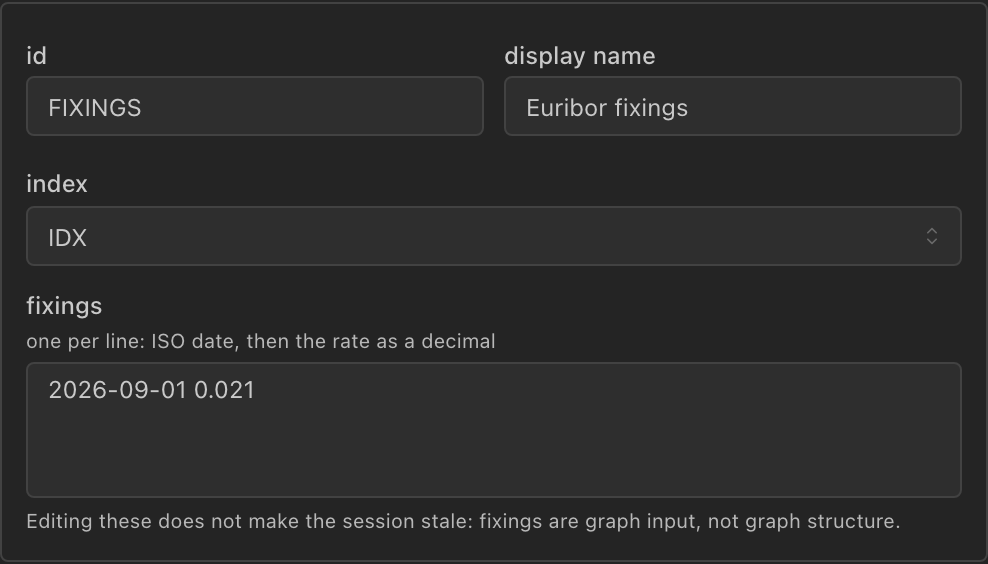
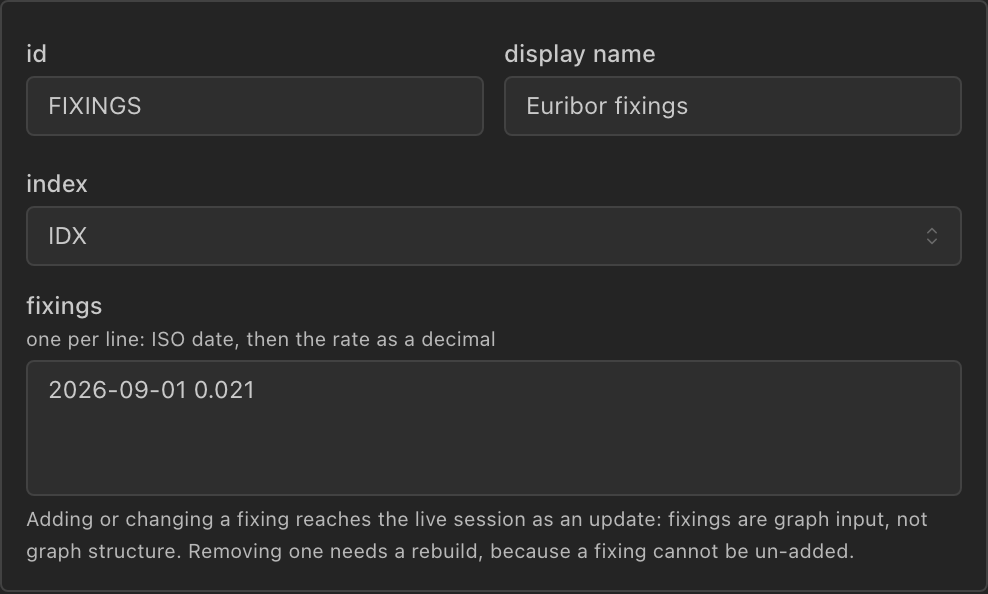
Say what the fixings box now does, on both sides of the caption
The market page said a fixings edit never turns the session stale and
reaches the graph as a live update. Until this branch neither half was
true: nothing sent fixings, and the editor said so with a straight face.
Now that adding or changing a fixing rides UpdateMarket and removing one
raises the rebuild bar, the page and its zh_TW mirror say that, and the
screenshot shows the caption the editor actually carries.

Claude-Session: https://claude.ai/code/session_01MJtVZSjTSgWshw7miPwQ9g

diff --git a/doc/market.md b/doc/market.md
@@ -154,15 +154,18 @@ years.
 Past fixings are graph *input*, not graph *structure*, so they may arrive
 either when the session is opened or in a later live update. A floating leg
 that has already fixed for the current period needs its fixing before it can
-price, and supplying it does not cost a rebuild.
+price, and supplying it does not cost a rebuild. Taking one away does: a
+fixing cannot be un-added from a live index, so removing a line is the one
+edit in this box that raises the rebuild bar.
 
 ```{figure} images/market-fixings.png
-:alt: The fixings editor: id FIXINGS, display name Euribor fixings, the index the fixings belong to, and a box holding one fixing per line as an ISO date and a decimal rate, under a note that editing these does not make the session stale.
+:alt: The fixings editor: id FIXINGS, display name Euribor fixings, the index the fixings belong to, and a box holding one fixing per line as an ISO date and a decimal rate, under a note that adding or changing a fixing reaches the live session as an update and that removing one needs a rebuild.
 :width: 420px
 
-One per line, and the sentence under the box is the whole distinction: this is
-the market edit that never turns the session stale. No rebuild bar appears, and
-the fixing reaches the graph as an ordinary live update.
+One per line, and the sentence under the box is the whole distinction: adding
+or changing a fixing reaches the live session as an ordinary update, with no
+rebuild bar, while removing one is structural. Each keystroke that leaves a
+parseable line is sent, so the graph is never a fixing behind the box.
 ```
 
 ## Two traps the interface calls out
